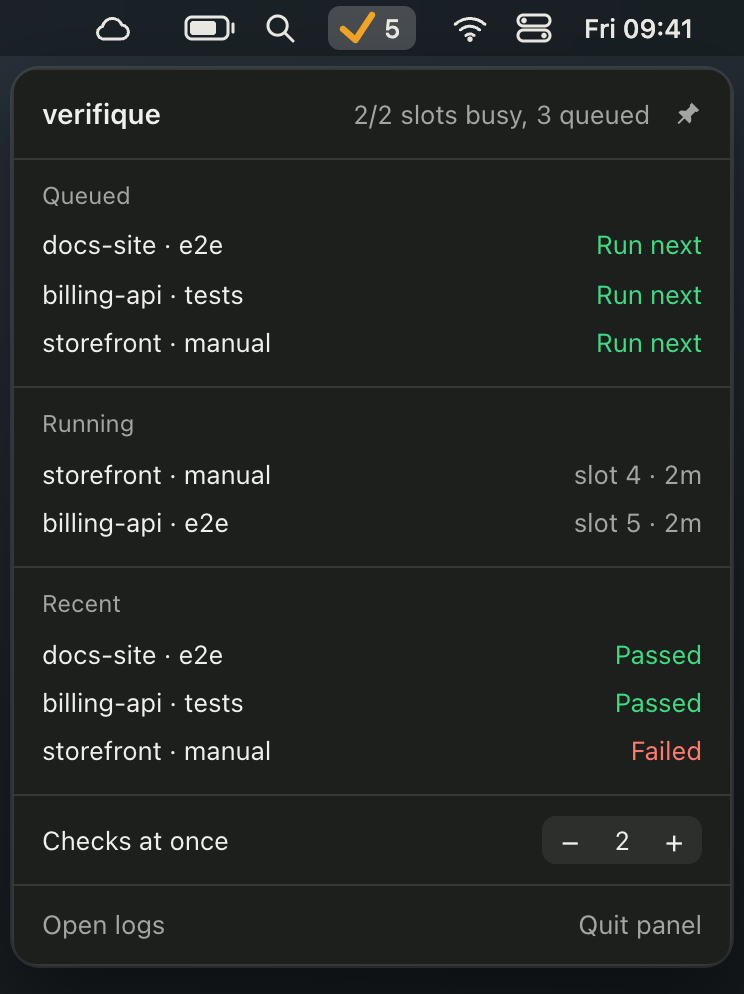
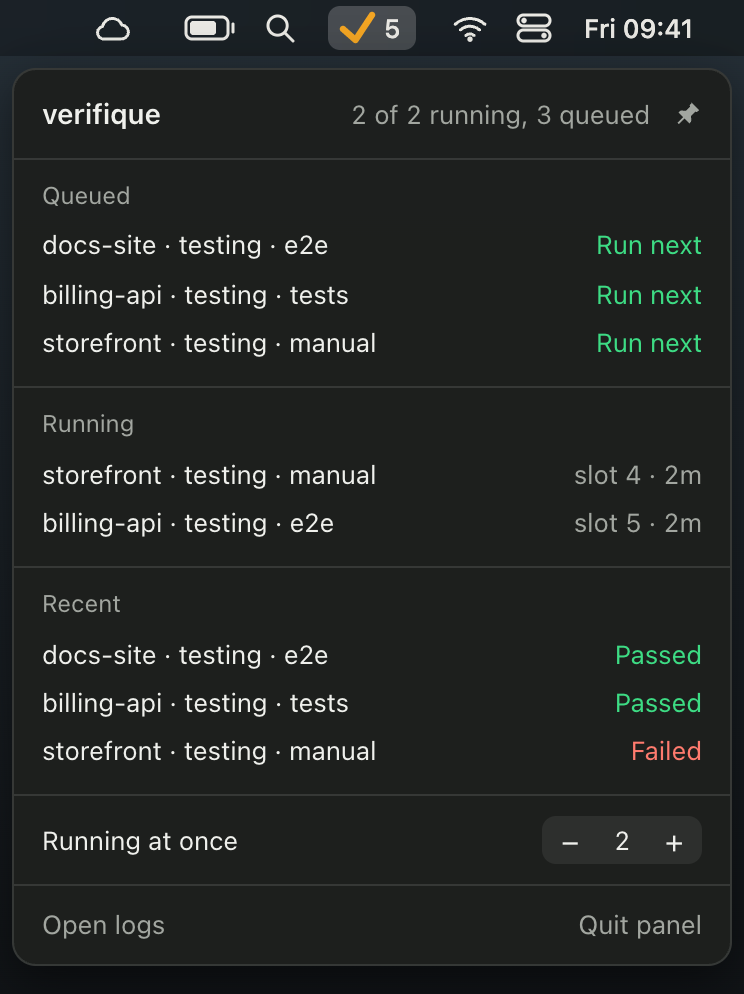
Redraw the panel pictures with today's wording, and keep the README's link step
The pictures on the site and in the README still said "2/2 slots busy" and
"Checks at once". e2e/panel/picture.mjs now draws them from the panel's own
page with a sample queue, under the menu bar strip they already had, so they
can be redrawn whenever the panel changes.

The shorter README had dropped the command that links the built binary into
~/.local/bin, which the install journey runs from the Build section.

diff --git a/e2e/README.md b/e2e/README.md
@@ -13,7 +13,9 @@ These tests treat verifique as a stranger or an agent does: the real binary, rea
 | Scoreboard | A real agent catches planted bugs and passes good changes | `python3 e2e/shop_cases.py` | About a dollar |
 | Blind setup | A fresh agent connects a project with nothing but `verifique init` | `sh e2e/blind.sh <copy>` | $5 to $10 |
 
-`sh e2e/run.sh` runs the free tiers, and `sh e2e/run.sh real` adds the shop and the scoreboard. To run the free tiers on a clean Linux machine:
+`sh e2e/run.sh` runs the free tiers, and `sh e2e/run.sh real` adds the shop and the scoreboard.
+`node e2e/panel/picture.mjs` redraws the pictures of the panel on the site and in the README from the
+same page, after the panel changes. To run the free tiers on a clean Linux machine:
 
 ```bash
 docker build -f e2e/Dockerfile -t verifique-e2e . && docker run --rm verifique-e2e

diff --git a/README.md b/README.md
@@ -222,7 +222,13 @@ cargo build --release
 cargo test
 ```
 
-Then put `target/release/verifique` on your `PATH`, and if your queue runs this build, run
+Then put the binary on your `PATH`. On macOS or Linux, for example:
+
+```bash
+ln -s "$PWD/target/release/verifique" ~/.local/bin/verifique
+```
+
+On Windows, add `target\release` to your user `PATH`. If your queue runs this build, run
 `verifique service restart` after each build. `panel/bundle.sh` builds the panel on macOS,
 `panel/bundle-windows.ps1` on Windows and `panel/bundle-linux.sh` on Linux. The tests need `git`,
 `python3`, `psql`, `mongosh` and `redis-cli`, and running Postgres, Mongo and Redis.
